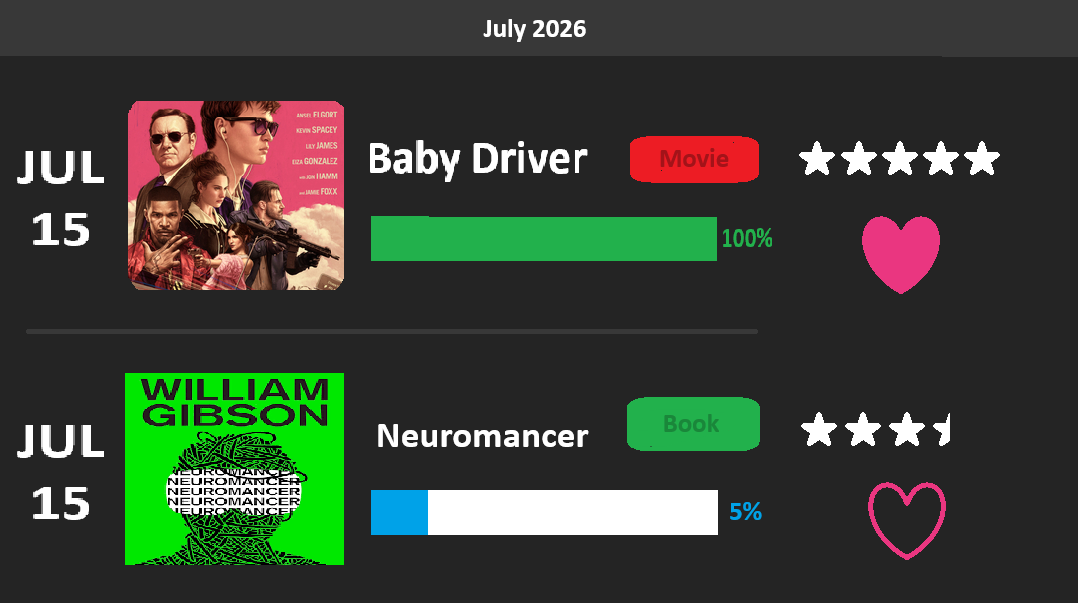
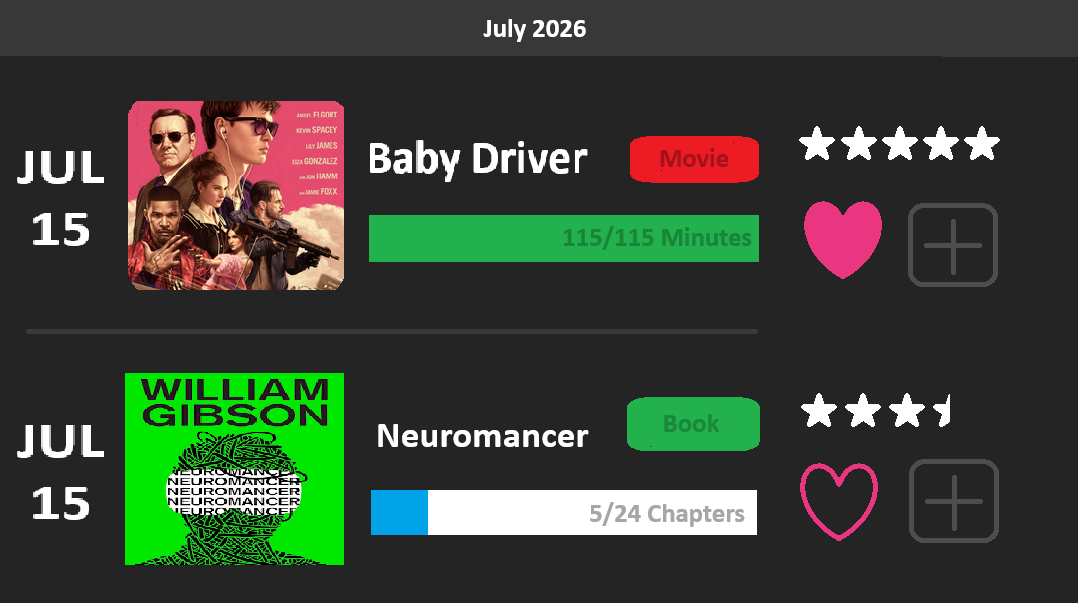
-

diff --git a/app/src/App.tsx b/app/src/App.tsx
@@ -4,6 +4,7 @@ function App() {
       id: 1,
       media_id: 1,
       source: "",
+      type: "movie",
       title: "Baby Driver",
       release_date: new Date("March 11 2017"),
       start_date: new Date("July 7 2026"),
@@ -21,6 +22,7 @@ function App() {
       id: 2,
       media_id: 2,
       source: "",
+      type: "book",
       title: "Neuromancer",
       release_date: new Date("March 11 2017"),
       start_date: new Date("July 7 2026"),
@@ -35,6 +37,7 @@ function App() {
       id: 3,
       media_id: 23,
       source: "",
+      type: "game",
       title: "Minecraft",
       release_date: new Date("March 11 2017"),
       start_date: new Date("July 7 2016"),
@@ -52,6 +55,7 @@ function App() {
       id: 4,
       media_id: 14,
       source: "",
+      type: "tv-show",
       title: "Squid Game S1",
       release_date: new Date("September 12 2011"),
       start_date: new Date("July 7 2026"),
